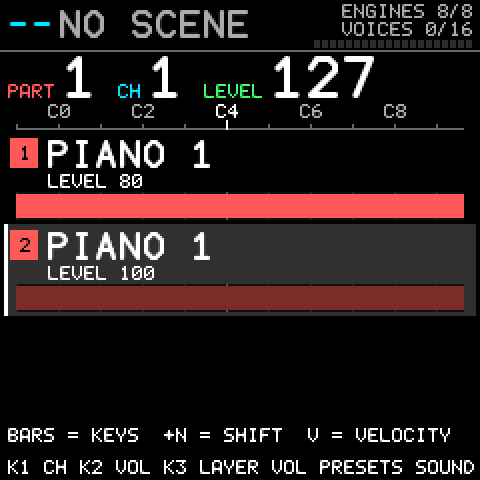
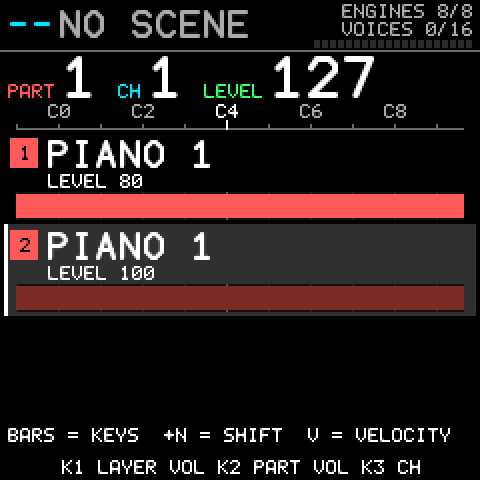
DX747 panel: K1 is the part volume on Parts and the layer volume on Details
- Parts (the first home screen): K1 sets the volume of the selected part.
- Part in detail (the second home screen): K1 sets the framed layer's own level, K2 stays the
  part level, and the MIDI channel moves from K1 to K3. The hints say so.
- The two level steps are shared helpers (the Sound page and Mix use them too).
- Recipe 17 follows the new assignment and checks K1 on both screens; docs, checklist and the
  affected screenshots are updated.

Changed region(s): [[0.0938, 0.9375, 0.625, 1.0], [0.6562, 0.9375, 1.0, 1.0], [0.0, 0.9375, 0.0625, 1.0]]

diff --git a/docs/ON-DEVICE-CHECKLIST.md b/docs/ON-DEVICE-CHECKLIST.md
@@ -39,8 +39,9 @@ serial or label.
 | Memory | System screen | CPU reading is steady at idle |
 | All eight engines up | look at every screen's header | the `ENGINES` count reads 8/8 and is not amber; write down the second number if it is lower |
 | Octave buttons step | on EDIT's pages, FX, Scenes, System, Mix and the part in detail (HOME twice) press OCT- and OCT+ | each steps the page, the filter page, the bank, the row, the part; on Parts, Part and MIDI in they move the keyboard octave |
-| Part in detail | HOME twice; K1 and K2; ARP then two keys | K1 moves the MIDI channel, K2 the part level; a split and an octave shift show as bars and a small amber tag |
+| Part in detail | HOME twice; K1, K2 and K3; ARP then two keys | K1 sets the framed layer's level, K2 the part level, K3 moves the MIDI channel; a split and an octave shift show as bars and a small amber tag |
 | Readable text | look at every screen at arm's length, in a bright and a dim room | the text you need to read is white and legible, the large text is smooth, not blocky; write down any text that is hard to read and on which screen |
+| Part volume on the Parts screen | K1 on the first home screen | the selected part's volume changes (the overlay shows it) |
 | PRESETS | turn PRESETS on Parts, Part, the detail screen and each of the four layer pages | the framed layer's patch changes (the name shows in the overlay); K1 on the Sound page is the layer's volume |
 | Overlay | turn each knob on each screen once | a box with the label and the new value shows at the bottom for about a second after the last click, readable at arm's length; it is gone after that and the screen under it is unchanged |
 

diff --git a/DX747.md b/DX747.md
@@ -112,12 +112,13 @@ On Scenes while a scene is being named or the flash setup is asked, the keys do 
   layers after its channel. A part that is sounding shows an amber dot. **ENV** adds a
   layer to the selected part, or makes a part in an empty slot (on the lowest free
   channel). **LFO** removes the framed layer; the last layer takes the part with it.
+  **K1** sets the selected part's volume.
 - **Part in detail** (**HOME** a second time, or **HOME** again to go back): one line per
   layer over a keyboard ruler (C0 to C8, middle C marked): the layer's sound, its keys as
   a bar, an octave shift as a small amber tag beside it (`+1`, `-2`), its level, its pan if
   it is off centre and its velocity window if it is narrowed. The part's number, **MIDI
-  channel** (**K1**) and **part level** (**K2**, the mixer volume) are the large figures at
-  the top; **K3** sets the framed layer's own level, **PRESETS** its patch, **ALGO** frames a layer, **OCT-** and
+  channel** (**K3**) and **part level** (**K2**, the mixer volume) are the large figures at
+  the top; **K1** sets the framed layer's own level, **PRESETS** its patch, **ALGO** frames a layer, **OCT-** and
   **OCT+** step to the previous and next part, **ARP** learns the framed layer's keys.
   Up to three layers get roomy lines, more are packed.
 - **Part:** the layers of the selected part with their windows, shifts and velocity
